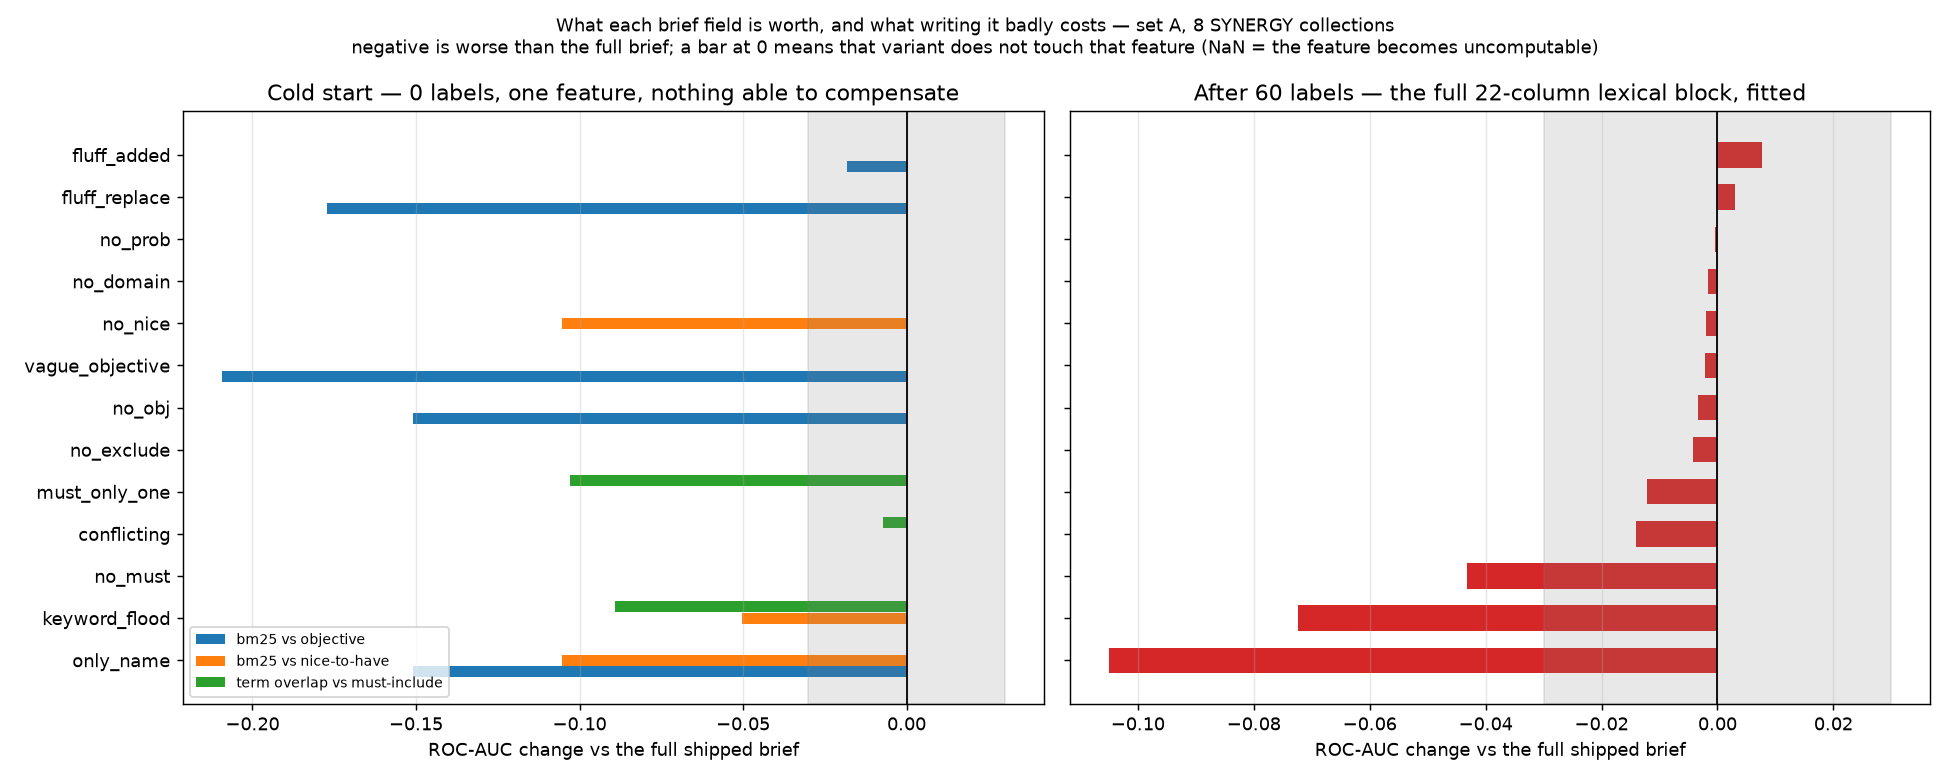
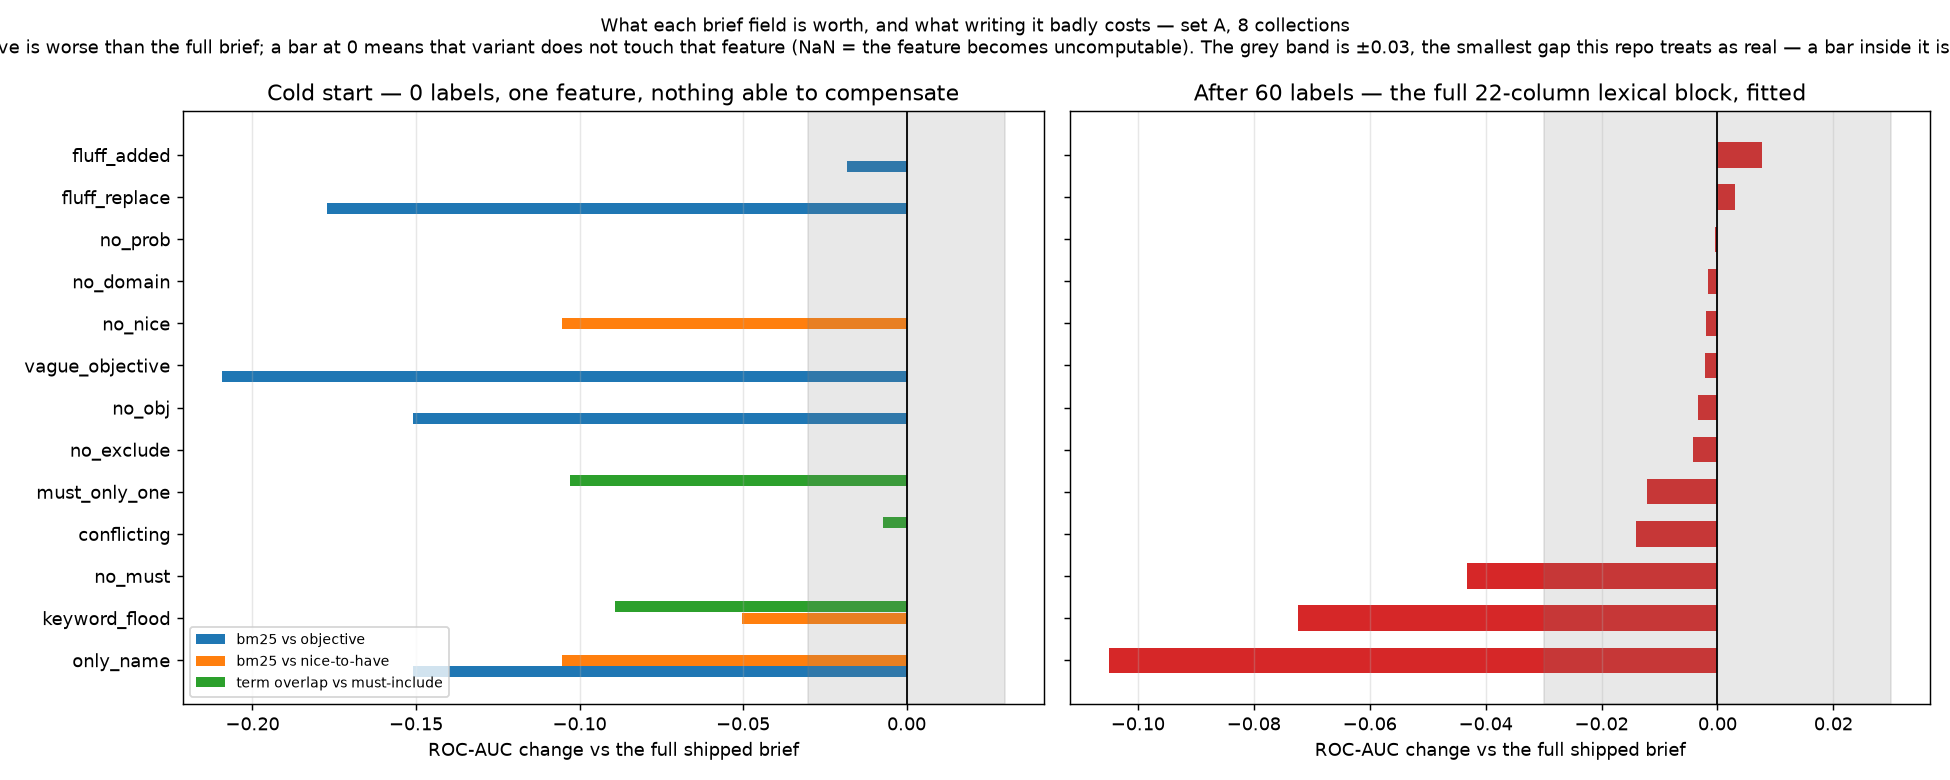
Run the matcher arm on set B, and most of the term-damage finding does not replicate
The reader probe compares a reader delta against a matcher delta, but every
matcher number was measured on set A. Subtracting a set-B reader delta from a
set-A matcher delta would be comparing two surfaces and calling the difference
an arm effect. This re-run is free, so there was no reason to accept that.

It also turns out to be the more interesting half. On set B's 7 clean
collections, three of the four headline term-damage numbers collapse:

  keyword_flood  -0.072 (6 of 8)  ->  -0.031 (3 of 7)
  no_must        -0.043 (4 of 8)  ->  -0.010 (1 of 7)
  only_name      -0.105 (4 of 8)  ->  -0.045 (3 of 7)
  conflicting    -0.014 (1 of 8)  ->  -0.009 (1 of 7)

Set A's means were carried by one collection: leenaars_2020 alone contributes
keyword_flood -0.220 and no_must -0.149. Set B's smaller keyword_flood mean is
likewise carried by walker_2018 (-0.111), which is 56% of the set. So the honest
reading is that "padding a term list is worse than leaving it empty" is a
one-collection effect on both surfaces, and "terms_must_include is the single
load-bearing field" (-0.010, 1 of 7) does not survive a clean surface at all.

What does replicate is the premise the reader probe rests on: contradiction
barely dents a matcher, -0.009 against -0.014, for a structural reason rather
than a lucky one - BM25 cannot notice a term list contradicting itself. So the
two-critic argument is now standing on confirmed ground rather than on set A.
[…]

Changed region(s): [[0.0, 0.0, 0.8923, 0.0923], [0.9538, 0.0308, 1.0, 0.0923]]

diff --git a/scripts/run_spec_quality_ablation.py b/scripts/run_spec_quality_ablation.py
@@ -51,7 +51,25 @@ Note the IDF here is computed over the case-control sample rather than the full 
 gap is expected and is constant across variants - which is what makes variant-vs-variant valid
 even where variant-vs-shipped is not.
 
+Two surfaces
+------------
+`--set a` is the original run (8 SYNERGY collections, 2.19% positive) and keeps the original
+output filenames, so its committed report and CSV reproduce unchanged. `--set b` is the clean
+confirmatory surface (7 collections, 1.87% positive) and writes `*_set_b.*`.
+
+Set B exists here for one specific reason: `wf_spec_quality_plan.md`'s `P-R` probe compares a
+**reader** delta against a **matcher** delta, and the matcher's numbers were only ever measured
+on set A. Subtracting a set-B reader delta from a set-A matcher delta would be comparing two
+surfaces and calling the difference an arm effect — the selection-on-holdout error in miniature.
+This re-run is free, so there is no reason to accept that.
+
+Expect fewer collections in the *fitted* arm on B than on A: the arm needs 30 train positives
+and 30 train negatives per collection, and B's smaller collections do not all have them. The
+report prints which ones dropped out and why, because a win count over an unstated denominator
+is the thing `CONTEXT.md` §5 exists to prevent.
+
     python scripts/run_spec_quality_ablation.py --seeds 5
+    python scripts/run_spec_quality_ablation.py --seeds 5 --set b --drop-ab-crossing
 """
 
 from __future__ import annotations
@@ -67,7 +85,7 @@ from sklearn.metrics import roc_auc_score
 REPO = Path(__file__).resolve().parents[1]
 sys.path.insert(0, str(REPO / "scripts"))
 
-from benchset_loader import case_control_sample, load_set_a, make_splits  # noqa: E402
+from benchset_loader import SETS, case_control_sample, drop_ab_crossing, load_set  # noqa: E402
 from ensemble_eval_utils import to_md  # noqa: E402
 from lexical_features import build_lexical_features  # noqa: E402
 from run_ensemble_candidate import logreg_c_fn  # noqa: E402
@@ -75,6 +93,13 @@ from run_ensemble_candidate import logreg_c_fn  # noqa: E402
 OUT_MD = REPO / "reports" / "wf_spec_quality_ablation.md"
 OUT_CSV = REPO / "reports" / "wf_spec_quality_ablation.csv"
 FIG = REPO / "reports" / "wf_spec_quality_ablation.png"
+
+
+def out_paths(set_name: str) -> tuple[Path, Path, Path]:
+    """Set A keeps the original filenames; any other set is suffixed so it cannot overwrite it."""
+    stem = "wf_spec_quality_ablation" + ("" if set_name == "a" else f"_set_{set_name}")
+    d = REPO / "reports"
+    return d / f"{stem}.md", d / f"{stem}.csv", d / f"{stem}.png"
 
 LOGREG_C = 0.0005
 N_POS = N_NEG = 30  # the induced-brief ladder's budget, so this is comparable to it
@@ -217,7 +242,7 @@ def evaluate(sample: pd.DataFrame, seeds: int) -> pd.DataFrame:
     return pd.DataFrame(rows)
 
 
-def chart(summary: pd.DataFrame) -> None:
+def chart(summary: pd.DataFrame, fig: Path, surface: str, n_coll: int) -> None:
     import matplotlib
 
     matplotlib.use("Agg")
@@ -225,7 +250,7 @@ def chart(summary: pd.DataFrame) -> None:
 
     s = summary.drop(index="full").sort_values("d_fitted_auc")
     yy = np.arange(len(s))
-    fig, axes = plt.subplots(1, 2, figsize=(15, 6), sharey=True)
+    f, axes = plt.subplots(1, 2, figsize=(15, 6), sharey=True)
 
     ax = axes[0]
     series = [("d_unfitted_bm25_obj", "bm25 vs objective"),
@@ -246,26 +271,43 @@ def chart(summary: pd.DataFrame) -> None:
         ax.set_xlabel("ROC-AUC change vs the full shipped brief")
         ax.grid(alpha=0.3, axis="x")
     axes[0].set_yticks(yy); axes[0].set_yticklabels(s.index)
-    fig.suptitle("What each brief field is worth, and what writing it badly costs — "
-                 "set A, 8 SYNERGY collections\n"
-                 "negative is worse than the full brief; a bar at 0 means that variant does not "
-                 "touch that feature (NaN = the feature becomes uncomputable)", fontsize=10)
-    fig.tight_layout(); fig.savefig(FIG, dpi=130)
-    print(f"wrote {FIG}")
+    f.suptitle("What each brief field is worth, and what writing it badly costs — "
+               f"{surface}, {n_coll} collections\n"
+               "negative is worse than the full brief; a bar at 0 means that variant does not "
+               "touch that feature (NaN = the feature becomes uncomputable). The grey band is "
+               "±0.03, the smallest gap this repo treats as real — a bar inside it is noise.",
+               fontsize=10)
+    f.tight_layout(); f.savefig(fig, dpi=130)
+    print(f"wrote {fig}")
 
 
 def main() -> None:
     ap = argparse.ArgumentParser()
     ap.add_argument("--seeds", type=int, default=5)
+    ap.add_argument("--set", default="a", choices=sorted(SETS),
+                    help="which large split to score; 'a' keeps the original output filenames")
+    ap.add_argument("--drop-ab-crossing", action="store_true",
+                    help="exclude papers that also appear in the other large split, for a strict "
+                         "held-out read (154 papers straddle the A/B boundary)")
     args = ap.parse_args()
 
-    base = load_set_a()
-    base["split"] = make_splits(base)
+    out_md, out_csv, fig = out_paths(args.set)
+    surface = f"benchset_v1_large_set_{args.set}"
+
+    base = load_set(args.set)
+    # No `make_splits` here: `case_control_sample` computes `split` on the sample it returns, so
+    # assigning it on the 62k/82k-row frame first was a discarded fold computation over the whole
+    # corpus. Removing it changes no output - the sample's column is overwritten either way.
+    n_before = len(base)
+    if args.drop_ab_crossing:
+        base = drop_ab_crossing(base, args.set)
+        print(f"strict held-out: dropped {n_before - len(base)} rows that also appear in the "
+              f"other large split", flush=True)
     sample = case_control_sample(base).reset_index(drop=True)
     print(f"sample: {len(sample)} rows, {sample.use_case_key.nunique()} collections", flush=True)
 
     res = evaluate(sample, args.seeds)
-    res.to_csv(OUT_CSV, index=False)
+    res.to_csv(out_csv, index=False)
 
     metrics = [c for c in res.columns if c.startswith(("unfitted_", "fitted_"))]
     summary = res.groupby("variant")[metrics].mean().loc[VARIANTS]
@@ -280,7 +322,14 @@ def main() -> None:
     summary["collections_worse_fitted"] = pd.Series(worse)
     summary["collections_worse_unfitted"] = pd.Series(worse_u)
 
-    chart(summary)
+    # The denominators, stated rather than implied. The fitted arm needs 30 train positives and 30
+    # train negatives per collection; a collection short of either is NaN, not a zero, and it must
+    # not be counted in a "worse on N of M" claim (NULL is not 0).
+    n_coll = int(res.use_case.nunique())
+    n_fitted = int(piv["full"].notna().sum())
+    dropped = sorted(piv.index[piv["full"].isna()])
+
+    chart(summary, fig, f"set {args.set.upper()}", n_coll)
 
     shipped = sample[["lex_bm25_obj", "lex_bm25_nice", "lex_overlap_must_frac"]]
     rebuilt = build_lexical_features(variant(sample, "full"))
@@ -290,25 +339,48 @@ def main() -> None:
 
     cols = ["unfitted_bm25_nice", "d_unfitted_bm25_nice", "collections_worse_unfitted",
             "fitted_auc", "d_fitted_auc", "collections_worse_fitted"]
-    OUT_MD.write_text(
+    strict = (" Papers that also appear in the other large split are excluded, so this is a "
+              "strict held-out read." if args.drop_ab_crossing else "")
+    drop_note = (
+        f"\n\n⚠ **The fitted arm covers {n_fitted} of the {n_coll} collections, not all "
+        f"{n_coll}.** {', '.join(f'`{d}`' for d in dropped)} lack the 30 train positives + 30 "
+        "train negatives the arm needs, so their score is **undefined rather than zero** and they "
+        "are excluded from `collections_worse_fitted`. Read that count against "
+        f"{n_fitted}, not {n_coll}.\n" if dropped else "\n"
+    )
+    out_md.write_text(
         "# Use-case spec quality — what each field is worth, and what bad writing costs\n\n"
-        f"Generated by `scripts/run_spec_quality_ablation.py --seeds {args.seeds}` on "
-        "`benchset_v1_large_set_a` (8 SYNERGY collections). Held-out rows only. Read the script "
-        "docstring for what each variant imitates.\n\n"
+        f"Generated by `scripts/run_spec_quality_ablation.py --seeds {args.seeds} --set "
+        f"{args.set}` on `{surface}` ({n_coll} collections). Held-out rows only.{strict} Read the "
+        "script docstring for what each variant imitates.\n\n"
         "**Instrument check (ADR 0009, run before any verdict).** Rebuilt `full` variant against "
         "the shipped `lex_*` columns: "
         + ", ".join(f"`{k}` r={v:.4f}" for k, v in checks.items())
         + ". IDF here is computed over the case-control sample rather than the full pool, so a "
         "gap against the shipped column is expected; it is constant across variants, which is "
         "what makes variant-vs-variant comparison valid.\n\n"
-        "`d_` columns are the change against the **full shipped brief**. Negative is worse. "
-        "`collections_worse_*` counts how many of 8 fall more than the 0.03 noise floor below "
-        "`full` — a mean can hide a split, so read the count beside it (`CONTEXT.md` §5).\n\n"
+        "## 0. How to read any number here\n\n"
+        "Every score is **ROC-AUC**: the chance that this feature ranks a genuinely relevant "
+        "paper above an irrelevant one. **0.500 is a coin flip** and 1.000 is perfect, so a "
+        "number below 0.500 means the feature is pointing the wrong way — worse than useless.\n\n"
+        "`d_` columns are the change against the **full shipped brief**, so they answer *what did "
+        "damaging the brief this way cost?* **Negative is worse.** A `d_` of 0.000 usually means "
+        "the variant does not touch that particular feature at all, not that the damage was free.\n\n"
+        "**A gap smaller than 0.03 is not a result.** Re-running with different random seeds moves "
+        "these numbers by about 0.010 on its own (`CONTEXT.md` §5), so anything under ~0.03 is "
+        "inside the noise. That is why `collections_worse_*` sits beside every mean: it counts how "
+        f"many of the {n_coll} collections fall more than 0.03 below `full`. A mean can be dragged "
+        "by one easy collection; a count cannot.\n\n"
+        "Blank (`NaN`) means **uncomputable, not zero**. Emptying a brief field can leave its "
+        "feature with nothing to read, and the honest report of that is an absence — which is "
+        "itself the finding."
+        + drop_note + "\n"
+        "## 1. Results\n\n"
         + to_md(summary[cols].round(4)) + "\n\n"
-        "## All metrics\n\n" + to_md(summary.round(4)) + "\n",
+        "## 2. All metrics\n\n" + to_md(summary.round(4)) + "\n",
         encoding="utf-8",
     )
-    print(f"wrote {OUT_MD}")
+    print(f"wrote {out_md}")
 
 
 if __name__ == "__main__":

diff --git a/reports/wf_spec_quality_ablation_set_b.md b/reports/wf_spec_quality_ablation_set_b.md
@@ -1,0 +1,53 @@
+# Use-case spec quality — what each field is worth, and what bad writing costs
+
+Generated by `scripts/run_spec_quality_ablation.py --seeds 5 --set b` on `benchset_v1_large_set_b` (7 collections). Held-out rows only. Papers that also appear in the other large split are excluded, so this is a strict held-out read. Read the script docstring for what each variant imitates.
+
+**Instrument check (ADR 0009, run before any verdict).** Rebuilt `full` variant against the shipped `lex_*` columns: `bm25_obj` r=0.9965, `bm25_nice` r=0.9909, `overlap_must_frac` r=1.0000. IDF here is computed over the case-control sample rather than the full pool, so a gap against the shipped column is expected; it is constant across variants, which is what makes variant-vs-variant comparison valid.
+
+## 0. How to read any number here
+
+Every score is **ROC-AUC**: the chance that this feature ranks a genuinely relevant paper above an irrelevant one. **0.500 is a coin flip** and 1.000 is perfect, so a number below 0.500 means the feature is pointing the wrong way — worse than useless.
+
+`d_` columns are the change against the **full shipped brief**, so they answer *what did damaging the brief this way cost?* **Negative is worse.** A `d_` of 0.000 usually means the variant does not touch that particular feature at all, not that the damage was free.
+
+**A gap smaller than 0.03 is not a result.** Re-running with different random seeds moves these numbers by about 0.010 on its own (`CONTEXT.md` §5), so anything under ~0.03 is inside the noise. That is why `collections_worse_*` sits beside every mean: it counts how many of the 7 collections fall more than 0.03 below `full`. A mean can be dragged by one easy collection; a count cannot.
+
+Blank (`NaN`) means **uncomputable, not zero**. Emptying a brief field can leave its feature with nothing to read, and the honest report of that is an absence — which is itself the finding.
+
+## 1. Results
+
+| variant         | unfitted_bm25_nice | d_unfitted_bm25_nice | collections_worse_unfitted | fitted_auc | d_fitted_auc | collections_worse_fitted |
+|-----------------|--------------------|----------------------|----------------------------|------------|--------------|--------------------------|
+| full            | 0.715              | 0.000                | 0                          | 0.816      | 0.000        | 0                        |
+| no_obj          | 0.715              | 0.000                | 0                          | 0.809      | -0.007       | 1                        |
+| no_prob         | 0.715              | 0.000                | 0                          | 0.816      | -0.000       | 0                        |
+| no_must         | 0.715              | 0.000                | 0                          | 0.806      | -0.010       | 1                        |
+| no_nice         | 0.500              | -0.215               | 7                          | 0.812      | -0.005       | 0                        |
+| no_exclude      | 0.715              | 0.000                | 0                          | 0.812      | -0.005       | 0                        |
+| no_domain       | 0.715              | 0.000                | 0                          | 0.816      | -0.001       | 0                        |
+| only_name       | 0.500              | -0.215               | 7                          | 0.772      | -0.045       | 3                        |
+| fluff_replace   | 0.715              | 0.000                | 0                          | 0.807      | -0.009       | 1                        |
+| fluff_added     | 0.715              | 0.000                | 0                          | 0.812      | -0.004       | 0                        |
+| vague_objective | 0.715              | 0.000                | 0                          | 0.815      | -0.002       | 1                        |
+| conflicting     | 0.715              | 0.000                | 0                          | 0.807      | -0.009       | 1                        |
+| keyword_flood   | 0.710              | -0.004               | 2                          | 0.785      | -0.031       | 3                        |
+| must_only_one   | 0.715              | 0.000                | 0                          | 0.806      | -0.011       | 1                        |
+
+## 2. All metrics
+
+| variant         | unfitted_bm25_nice | unfitted_bm25_obj | unfitted_overlap_must_frac | fitted_auc | d_unfitted_bm25_nice | d_unfitted_bm25_obj | d_unfitted_overlap_must_frac | d_fitted_auc | collections_worse_fitted | collections_worse_unfitted |
+|-----------------|--------------------|-------------------|----------------------------|------------|----------------------|---------------------|------------------------------|--------------|--------------------------|----------------------------|
+| full            | 0.715              | 0.763             | 0.729                      | 0.816      | 0.000                | 0.000               | 0.000                        | 0.000        | 0                        | 0                          |
+| no_obj          | 0.715              | 0.500             | 0.729                      | 0.809      | 0.000                | -0.263              | 0.000                        | -0.007       | 1                        | 0                          |
+| no_prob         | 0.715              | 0.763             | 0.729                      | 0.816      | 0.000                | 0.000               | 0.000                        | -0.000       | 0                        | 0                          |
+| no_must         | 0.715              | 0.763             | nan                        | 0.806      | 0.000                | 0.000               | nan                          | -0.010       | 1                        | 0                          |
+| no_nice         | 0.500              | 0.763             | 0.729                      | 0.812      | -0.215               | 0.000               | 0.000                        | -0.005       | 0                        | 7                          |
+| no_exclude      | 0.715              | 0.763             | 0.729                      | 0.812      | 0.000                | 0.000               | 0.000                        | -0.005       | 0                        | 0                          |
+| no_domain       | 0.715              | 0.763             | 0.729                      | 0.816      | 0.000                | 0.000               | 0.000                        | -0.001       | 0                        | 0                          |
+| only_name       | 0.500              | 0.500             | nan                        | 0.772      | -0.215               | -0.263              | nan                          | -0.045       | 3                        | 7                          |
+| fluff_replace   | 0.715              | 0.594             | 0.729                      | 0.807      | 0.000                | -0.169              | 0.000                        | -0.009       | 1                        | 0                          |
+| fluff_added     | 0.715              | 0.757             | 0.729                      | 0.812      | 0.000                | -0.006              | 0.000                        | -0.004       | 0                        | 0                          |
+| vague_objective | 0.715              | 0.570             | 0.729                      | 0.815      | 0.000                | -0.194              | 0.000                        | -0.002       | 1                        | 0                          |
+| conflicting     | 0.715              | 0.763             | 0.702                      | 0.807      | 0.000                | 0.000               | -0.028                       | -0.009       | 1                        | 0                          |
+| keyword_flood   | 0.710              | 0.763             | 0.662                      | 0.785      | -0.004               | 0.000               | -0.067                       | -0.031       | 3                        | 2                          |
+| must_only_one   | 0.715              | 0.763             | 0.554                      | 0.806      | 0.000                | 0.000               | -0.175                       | -0.011       | 1                        | 0                          |

diff --git a/reports/wf_spec_quality_ablation.md b/reports/wf_spec_quality_ablation.md
@@ -1,10 +1,22 @@
 # Use-case spec quality — what each field is worth, and what bad writing costs
 
-Generated by `scripts/run_spec_quality_ablation.py --seeds 5` on `benchset_v1_large_set_a` (8 SYNERGY collections). Held-out rows only. Read the script docstring for what each variant imitates.
+Generated by `scripts/run_spec_quality_ablation.py --seeds 5 --set a` on `benchset_v1_large_set_a` (8 collections). Held-out rows only. Read the script docstring for what each variant imitates.
 
 **Instrument check (ADR 0009, run before any verdict).** Rebuilt `full` variant against the shipped `lex_*` columns: `bm25_obj` r=0.9991, `bm25_nice` r=0.9989, `overlap_must_frac` r=1.0000. IDF here is computed over the case-control sample rather than the full pool, so a gap against the shipped column is expected; it is constant across variants, which is what makes variant-vs-variant comparison valid.
 
-`d_` columns are the change against the **full shipped brief**. Negative is worse. `collections_worse_*` counts how many of 8 fall more than the 0.03 noise floor below `full` — a mean can hide a split, so read the count beside it (`CONTEXT.md` §5).
+## 0. How to read any number here
+
+Every score is **ROC-AUC**: the chance that this feature ranks a genuinely relevant paper above an irrelevant one. **0.500 is a coin flip** and 1.000 is perfect, so a number below 0.500 means the feature is pointing the wrong way — worse than useless.
+
+`d_` columns are the change against the **full shipped brief**, so they answer *what did damaging the brief this way cost?* **Negative is worse.** A `d_` of 0.000 usually means the variant does not touch that particular feature at all, not that the damage was free.
+
+**A gap smaller than 0.03 is not a result.** Re-running with different random seeds moves these numbers by about 0.010 on its own (`CONTEXT.md` §5), so anything under ~0.03 is inside the noise. That is why `collections_worse_*` sits beside every mean: it counts how many of the 8 collections fall more than 0.03 below `full`. A mean can be dragged by one easy collection; a count cannot.
+
+Blank (`NaN`) means **uncomputable, not zero**. Emptying a brief field can leave its feature with nothing to read, and the honest report of that is an absence — which is itself the finding.
+
+⚠ **The fitted arm covers 7 of the 8 collections, not all 8.** `synergy_sep_2021` lack the 30 train positives + 30 train negatives the arm needs, so their score is **undefined rather than zero** and they are excluded from `collections_worse_fitted`. Read that count against 7, not 8.
+
+## 1. Results
 
 | variant         | unfitted_bm25_nice | d_unfitted_bm25_nice | collections_worse_unfitted | fitted_auc | d_fitted_auc | collections_worse_fitted |
 |-----------------|--------------------|----------------------|----------------------------|------------|--------------|--------------------------|
@@ -23,7 +35,7 @@ Generated by `scripts/run_spec_quality_ablation.py --seeds 5` on `benchset_v1_la
 | keyword_flood   | 0.555              | -0.050               | 6                          | 0.698      | -0.072       | 6                        |
 | must_only_one   | 0.605              | 0.000                | 0                          | 0.758      | -0.012       | 3                        |
 
-## All metrics
+## 2. All metrics
 
 | variant         | unfitted_bm25_nice | unfitted_bm25_obj | unfitted_overlap_must_frac | fitted_auc | d_unfitted_bm25_nice | d_unfitted_bm25_obj | d_unfitted_overlap_must_frac | d_fitted_auc | collections_worse_fitted | collections_worse_unfitted |
 |-----------------|--------------------|-------------------|----------------------------|------------|----------------------|---------------------|------------------------------|--------------|--------------------------|----------------------------|
